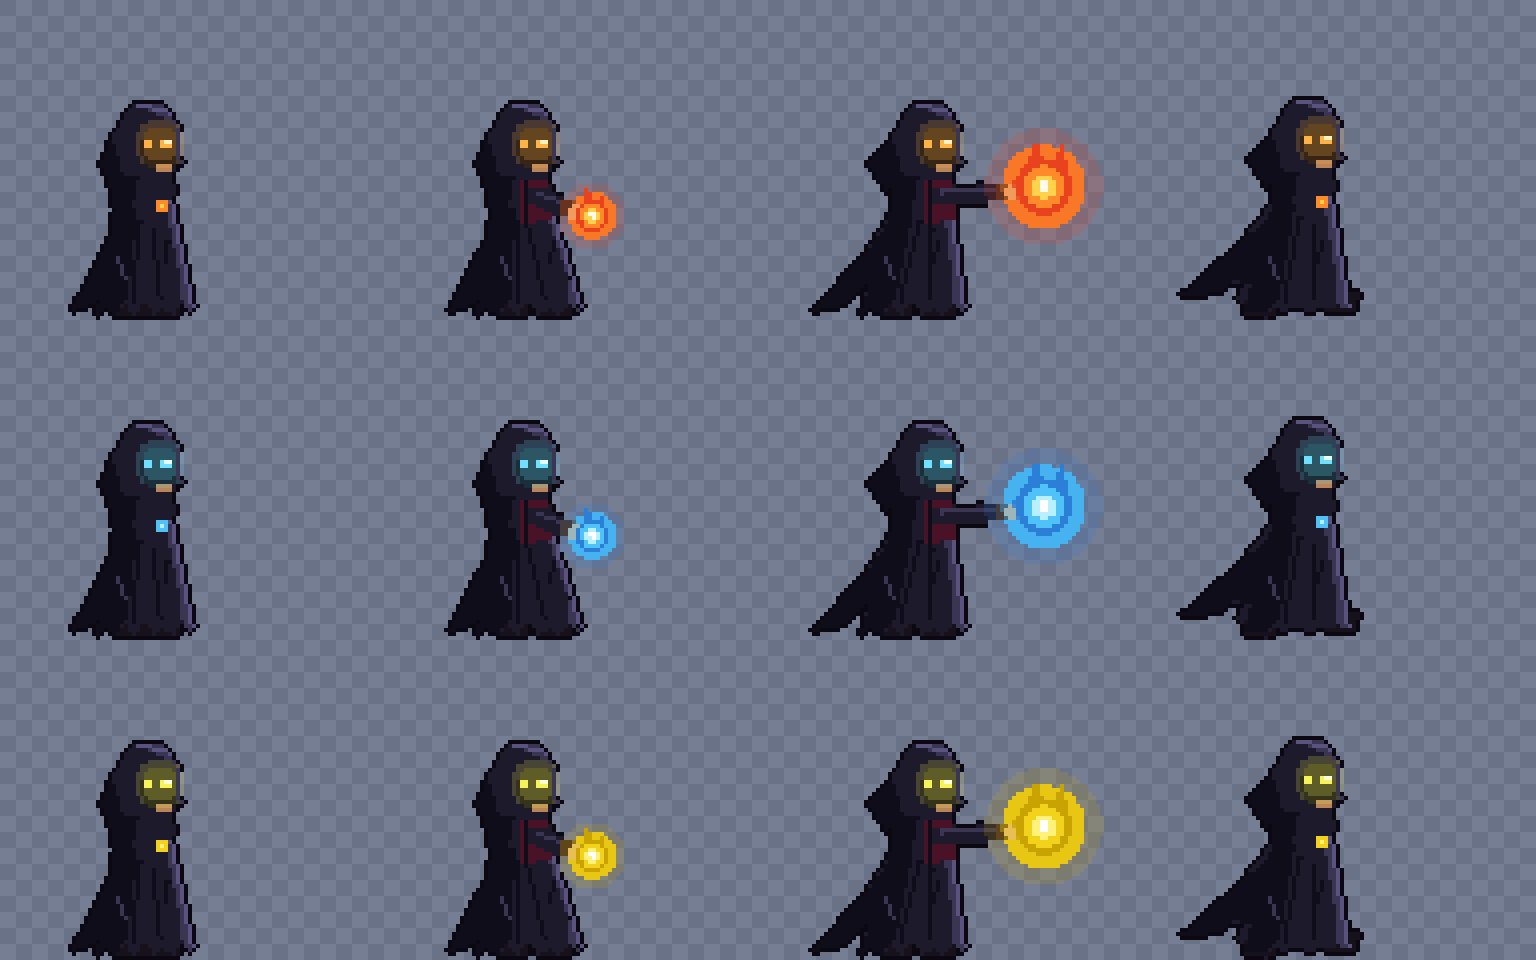
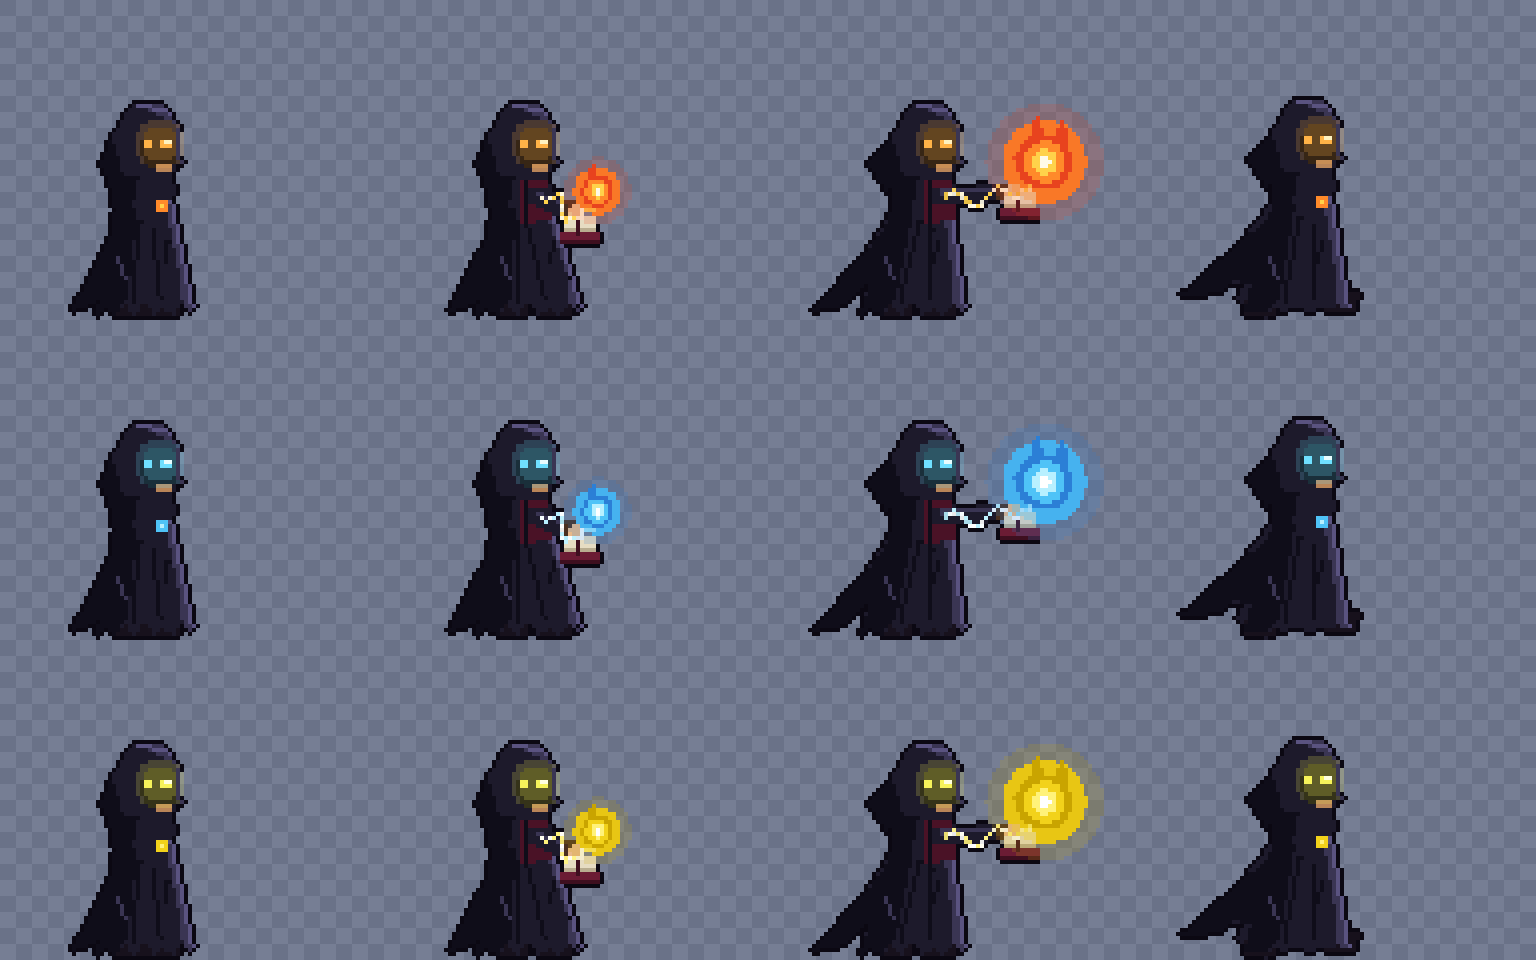
Garibaldo: grimorio e fios de energia no cast, portal na Explosao Arcana, cores por poder

diff --git a/src/systems/effects.js b/src/systems/effects.js
@@ -39,6 +39,30 @@ export default class Effects {
     this.s.tweens.add({ targets: c, radius: small ? 70 : 1100, alpha: 0, duration: small ? 250 : 600, onComplete: () => c.destroy() });
   }
 
+  // Portal em anel no chão (Explosão Arcana): anéis giratórios e fios de energia subindo.
+  portal(x, y, color) {
+    const g = this.s.add.graphics().setDepth(15).setPosition(x, y);
+    const st = { r: 0.15, a: 1, rot: 0 };
+    const draw = () => {
+      g.clear();
+      for (let k = 0; k < 3; k++) {
+        const rx = 130 * st.r * (1 + k * 0.14), ry = 34 * st.r * (1 + k * 0.14);
+        g.lineStyle(7 - k * 2, k === 0 ? 0xffffff : color, st.a * (k === 0 ? 1 : 0.55));
+        g.strokeEllipse(0, 0, rx * 2, ry * 2);
+      }
+      const rx = 130 * st.r, ry = 34 * st.r;
+      g.lineStyle(2, 0xffffff, st.a);
+      for (let i = 0; i < 14; i++) { // fagulhas orbitando o anel
+        const a = st.rot + i * 0.45, px = Math.cos(a) * rx, py = Math.sin(a) * ry;
+        g.beginPath(); g.moveTo(px, py); g.lineTo(px, py - 8 - (i % 3) * 6); g.strokePath();
+      }
+    };
+    draw();
+    this.s.tweens.add({ targets: st, r: 1, a: 0, rot: 4, duration: 750, ease: 'Cubic.easeOut', onUpdate: draw, onComplete: () => g.destroy() });
+    this.burst(x, y, color, 24, 260, -120, 700);
+    this.burst(x, y, 0xffffff, 12, 200, -160, 600);
+  }
+
   floater(x, y, text, color = '#ffffff') {
     const t = this.s.add.text(x, y, text, uiStyle(14, color)).setOrigin(0.5).setDepth(20);
     this.s.tweens.add({ targets: t, y: y - 40, alpha: 0, duration: 1000, ease: 'Quad.easeIn', onComplete: () => t.destroy() });

diff --git a/src/scenes/GameScene.js b/src/scenes/GameScene.js
@@ -1,5 +1,5 @@
 import {
-  GAME_W, GAME_H, LEVELS, ENEMIES, SHOTS, DESTRUCTIBLE, FIRE_SPLASH, ICE_SLOW,
+  GAME_W, GAME_H, LEVELS, ENEMIES, SHOTS, DESTRUCTIBLE, FIRE_SPLASH, ICE_SLOW, POWERS,
   GRAZE, PERFECT_DODGE, SLOW_FACTOR,
 } from '../config.js';
 import { FRAME } from '../assets.js';
@@ -432,6 +432,7 @@ export default class GameScene extends Phaser.Scene {
     const p = this.player;
     p.energy = 0;
     this.fx.ring(p.x, p.y - 24, 0xe3b8ff);
+    this.fx.portal(p.x, p.y - 4, POWERS[p.power].color);
     for (const s of this.eShots.getChildren()) if (s.visible) this.fx.burst(s.x, s.y, 0xe8d7ff, 4, 150, 0, 400);
     this.score += this.eShots.countActive(true) * 10;
     this.eShots.clear(true, true);

diff --git a/src/entities/Player.js b/src/entities/Player.js
@@ -108,7 +108,8 @@ export default class Player extends Phaser.Physics.Arcade.Sprite {
     const pw = POWERS[this.power];
     this.cd = pw.cd;
     const sh = this.shoulder(), d = this.aimDir();
-    const ox = sh.x + d.x * 24, oy = sh.y + d.y * 24;
+    // a magia sai da orbe que flutua acima do grimório (~8px acima do ombro)
+    const ox = sh.x + d.x * 24, oy = sh.y - 8 + d.y * 24;
     // animação de lançar magia (só em pé no chão; agachado/no ar mantém a pose)
     if (this.onGround && !this.crouch) { this.castT = CAST_TIME; this.playAnim('cast', true); }
     const base = Math.atan2(d.y, d.x);
